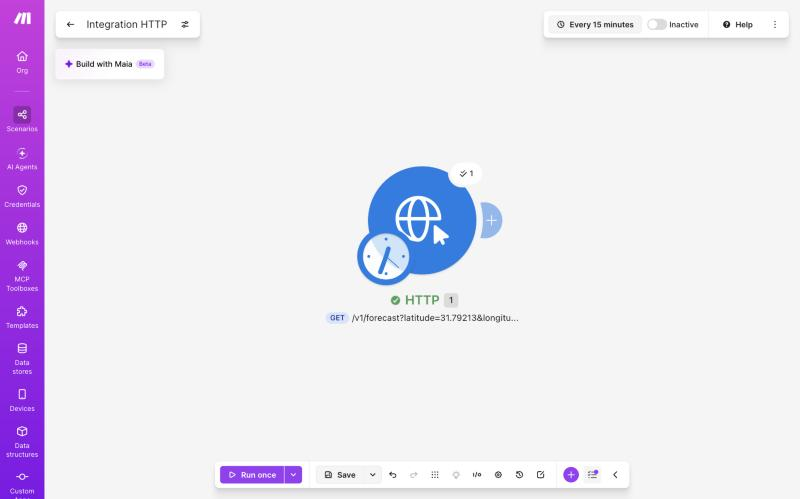
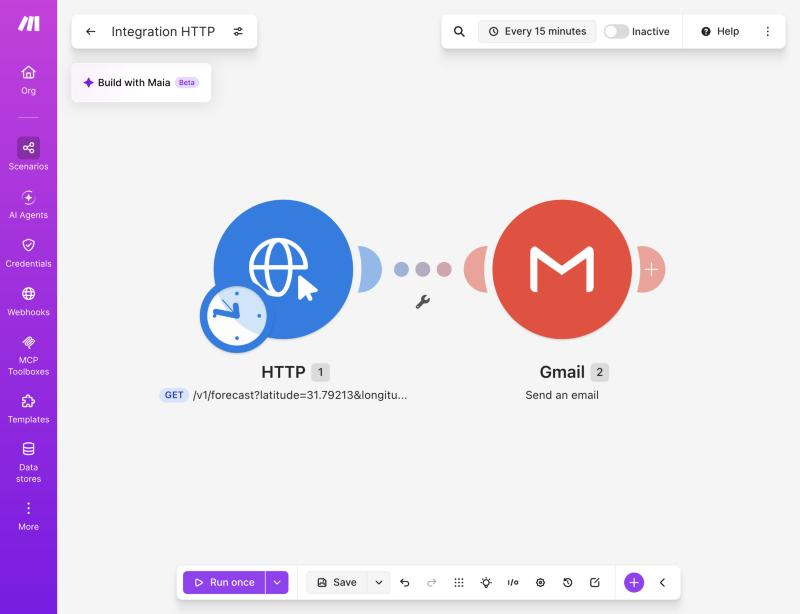
Session 3: complete weather scenario with mail module, replace misleading single-module canvas screenshot

diff --git a/site/session03/slides.html b/site/session03/slides.html
@@ -1091,11 +1091,11 @@ body.ov-on #ov{display:block}
 <!-- ============================== BLOCK 4 ============================== -->
 <section class="slide" data-min="1" data-block="3" data-title="מסך: התרחיש על הקנבס">
   <div class="s-kicker">כך זה נראה ב-Make</div>
-  <h2>התרחיש על הקנבס</h2>
+  <h2>התרחיש השלם על הקנבס</h2>
   <div class="s-body mid">
-    <figure class="shot" style="max-width:800px;margin:0 auto"><img src="../assets/make/s03-canvas.jpg" alt="מודול ה-HTTP על הקנבס של Make עם תיוג ה-GET והתזמון"><figcaption>כל מודול הוא עיגול; הקו מחבר ביניהם; השעון מתחת למודול הראשון הוא התזמון. זה "תרחיש".</figcaption></figure>
+    <figure class="shot" style="max-width:800px;margin:0 auto"><img src="../assets/make/s03-canvas.jpg" alt="התרחיש על הקנבס: מודול HTTP מחובר למודול Gmail, עם שעון התזמון מתחת למודול הראשון"><figcaption><b>כאן האוטומציה:</b> ה-<span class="en" dir="ltr">HTTP</span> מושך את הנתון, הקו מעביר אותו ל-<span class="en" dir="ltr">Gmail</span> ששולח, והשעון (מתחת למודול הראשון) מריץ את הכול לבד. מודול אחד לבד = לא אוטומציה; השרשרת + הטריגר = כן.</figcaption></figure>
   </div>
-  <aside class="notes"><ul><li>צילום מהבנייה החיה. הצביעו על השעון (תזמון) ועל בועת הפלט (1).</li></ul></aside>
+  <aside class="notes"><ul><li>צילום מהבנייה החיה. חדדו: קריאת HTTP לבד היא רק "שלוף נתון". האוטומציה = הטריגר (שעון) שמריץ לבד + הפעולה שאחריו (מייל/גיליון).</li></ul></aside>
 </section>
 
 <section class="slide" data-min="3" data-block="3" data-title="דוגמה שנייה">
